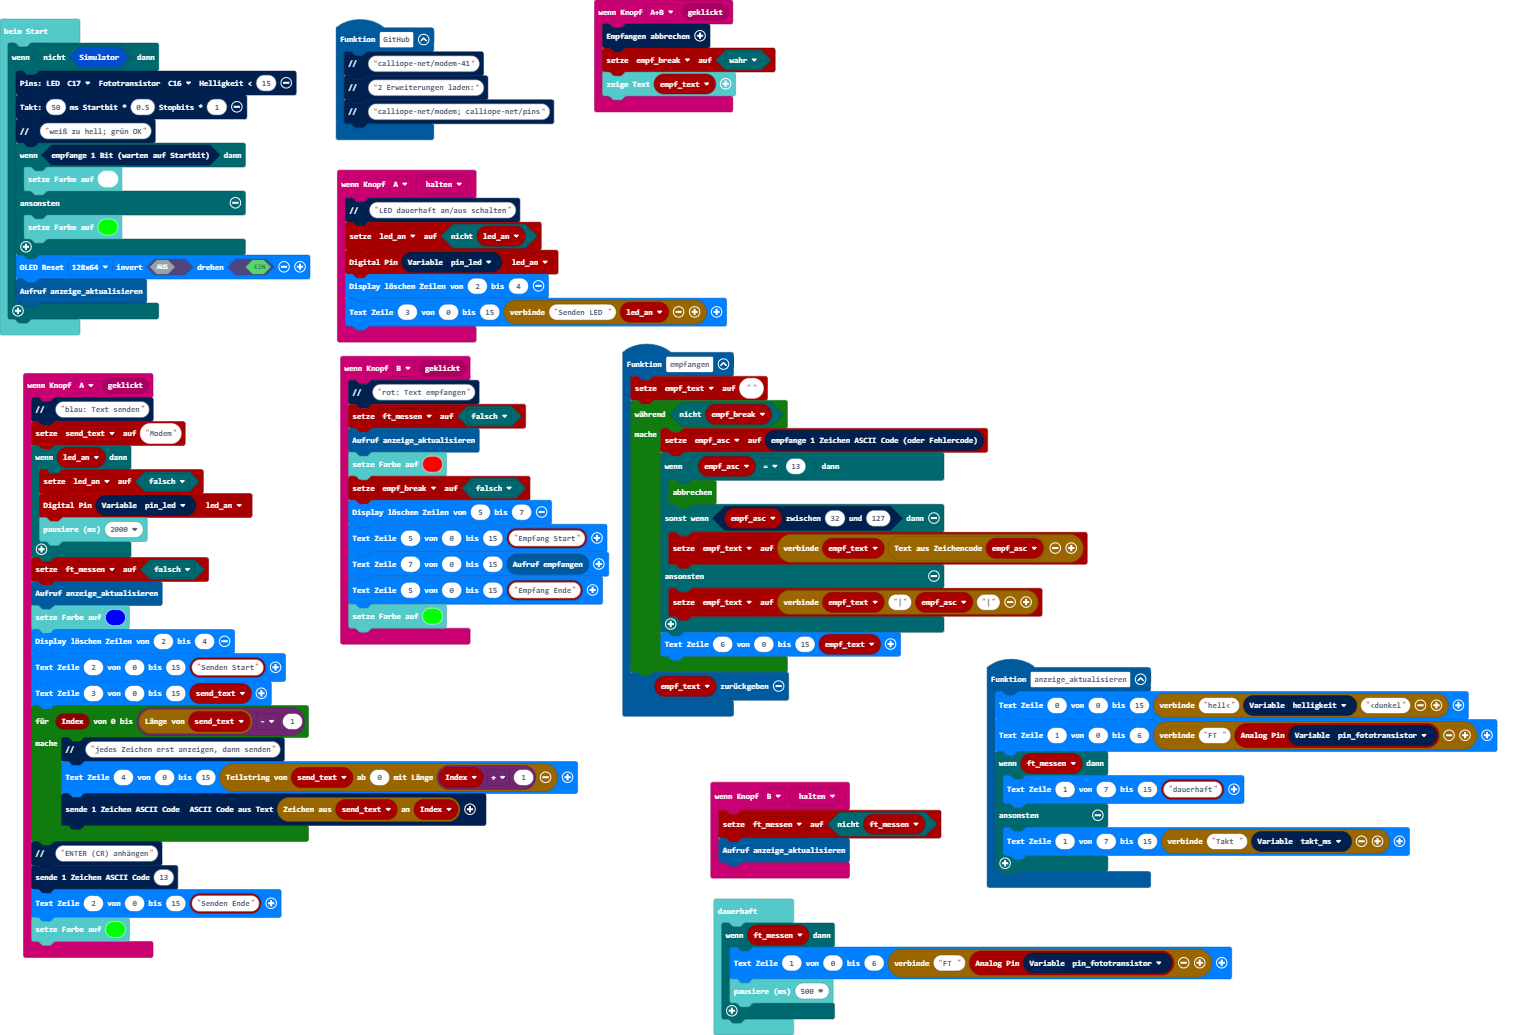
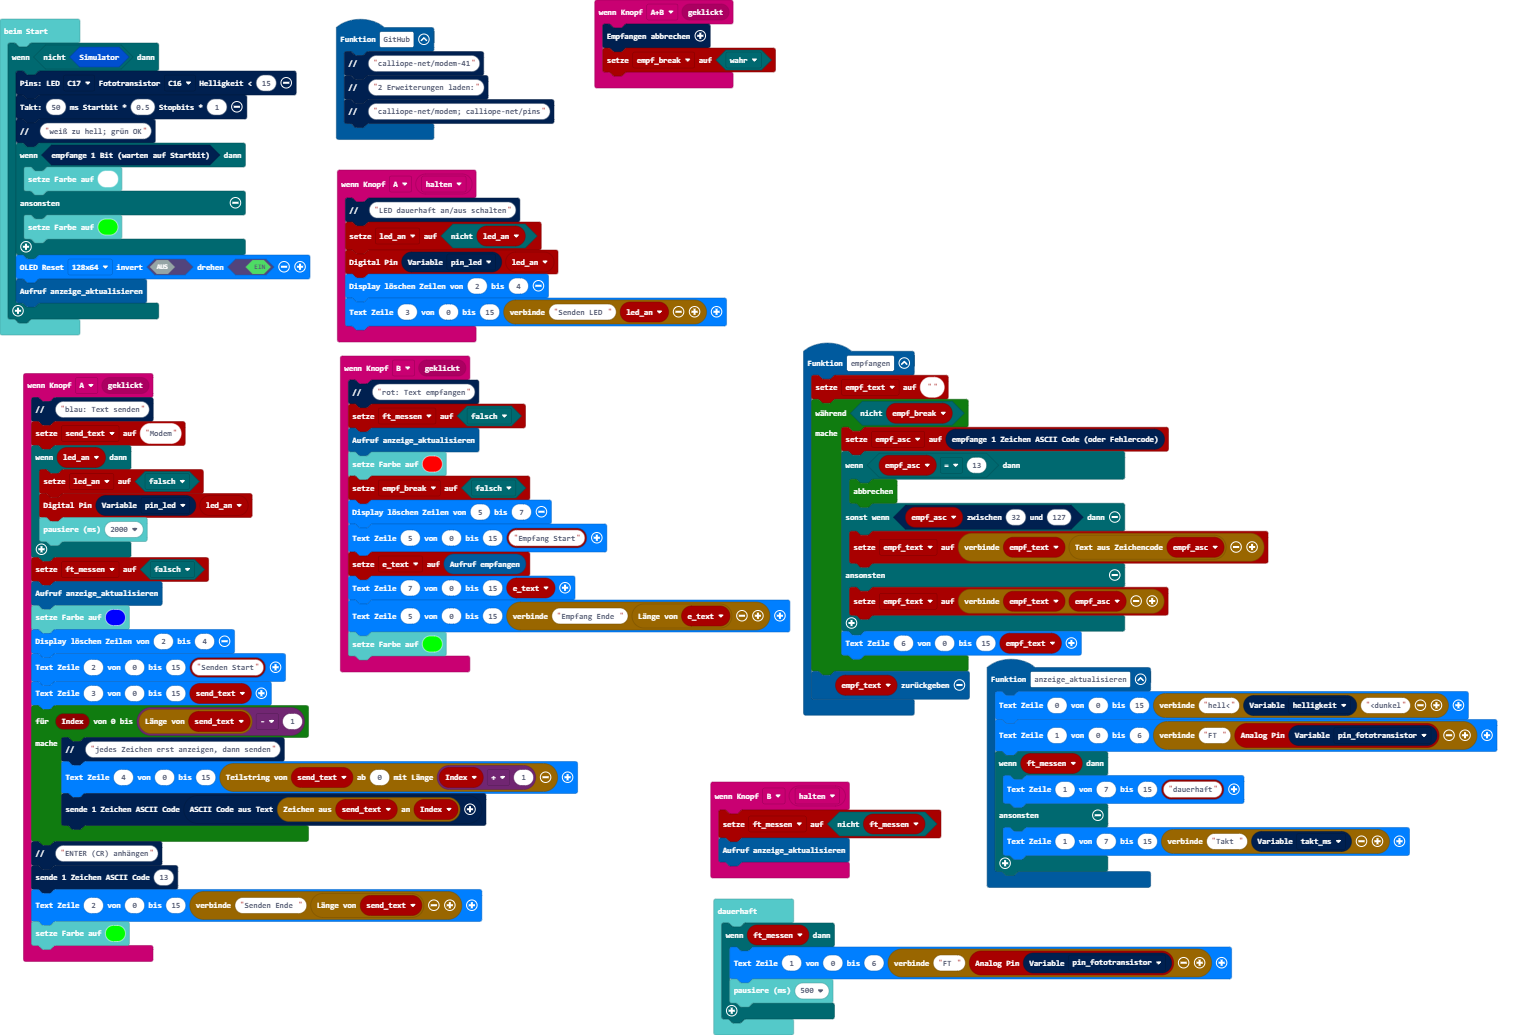
Aktualisiere main.blocks, main.ts

diff --git a/main.ts b/main.ts
@@ -24,7 +24,7 @@ input.onButtonEvent(Button.A, input.buttonEventClick(), function () {
     }
     modem.comment("ENTER (CR) anhängen")
     modem.sende_code(13)
-    pins.oled_write_text(2, 0, 15, pins.pins_text("Senden Ende"))
+    pins.oled_write_text(2, 0, 15, "Senden Ende " + send_text.length)
     basic.setLedColor(0x00ff00)
 })
 function empfangen () {
@@ -36,7 +36,7 @@ function empfangen () {
         } else if (modem.between(empf_asc, 32, 127)) {
             empf_text = "" + empf_text + String.fromCharCode(empf_asc)
         } else {
-            empf_text = "" + empf_text + "|" + empf_asc + "|"
+            empf_text = "" + empf_text + empf_asc
         }
         pins.oled_write_text(6, 0, 15, empf_text)
     }
@@ -45,7 +45,6 @@ function empfangen () {
 input.onButtonEvent(Button.AB, input.buttonEventClick(), function () {
     modem.empfang_abbrechen()
     empf_break = true
-    basic.showString(empf_text)
 })
 function anzeige_aktualisieren () {
     pins.oled_write_text(0, 0, 15, "hell<" + modem.get_settings(modem.e_settings.helligkeit) + "<dunkel")
@@ -64,8 +63,9 @@ input.onButtonEvent(Button.B, input.buttonEventClick(), function () {
     empf_break = false
     pins.oled_clear(5, 7)
     pins.oled_write_text(5, 0, 15, pins.pins_text("Empfang Start"))
-    pins.oled_write_text(7, 0, 15, empfangen())
-    pins.oled_write_text(5, 0, 15, pins.pins_text("Empfang Ende"))
+    e_text = empfangen()
+    pins.oled_write_text(7, 0, 15, e_text)
+    pins.oled_write_text(5, 0, 15, "Empfang Ende " + e_text.length)
     basic.setLedColor(0x00ff00)
 })
 input.onButtonEvent(Button.A, ButtonEvent.Hold, function () {
@@ -79,6 +79,7 @@ input.onButtonEvent(Button.B, ButtonEvent.Hold, function () {
     ft_messen = !(ft_messen)
     anzeige_aktualisieren()
 })
+let e_text = ""
 let empf_asc = 0
 let empf_break = false
 let empf_text = ""
